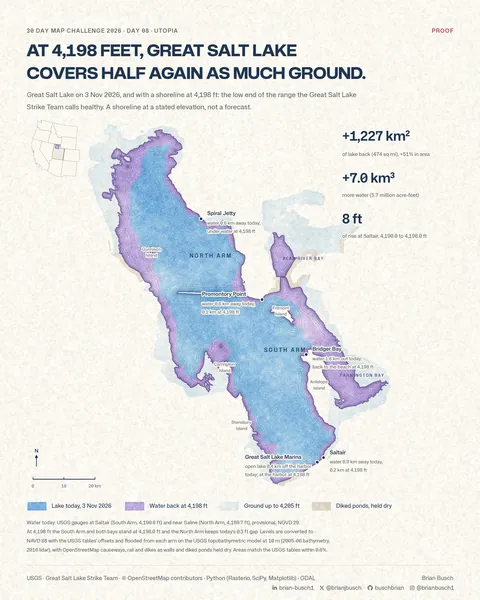
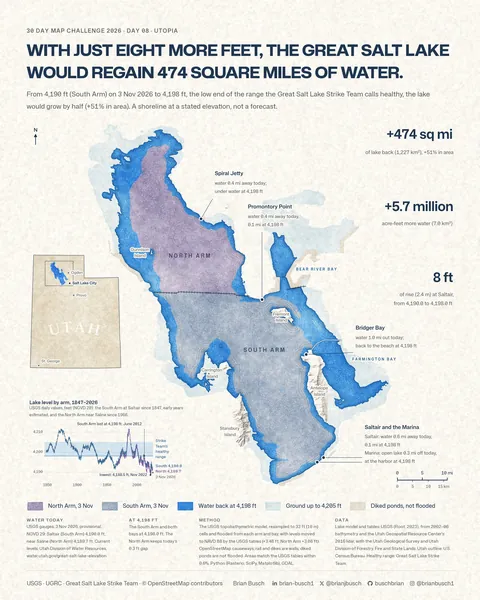
Update the Day 8 page for the final map
Replace the proof stand-in with the final still and rebuild its WebP
copies. The final has a new headline, purple and blue-grey arms for
November 3, and bright blue water at 4,198 feet.

Give areas, volume and distances in US units first. Correct the
bathymetry dates to 2002-06 from the USGS metadata. Credit UGRC, the
Utah Geological Survey and the Utah Division of Forestry, Fire and
State Lands. Link the current levels from the Utah Division of Water
Resources.

Update the symbol guide, the alternative text and the feed. Remove the
two review placeholders. The code excerpts still wait for the ruff pass.

diff --git a/notes/great-salt-lake-at-4198-feet/index.html b/notes/great-salt-lake-at-4198-feet/index.html
@@ -3,7 +3,7 @@
   <head>
     <meta charset="utf-8">
     <meta name="viewport" content="width=device-width, initial-scale=1">
-    <meta name="description" content="Great Salt Lake at 4,198 feet, the low end of the range the Great Salt Lake Strike Team calls healthy. At that level, the lake would cover about 1,227 km² more than on November 3, a 51% gain.">
+    <meta name="description" content="Great Salt Lake at 4,198 feet, the low end of the range the Great Salt Lake Strike Team calls healthy. At that level, the lake would cover about 474 square miles (1,227 km²) more than on November 3, a 51% gain.">
     <meta name="theme-color" content="#ffffff">
     <title>Great Salt Lake at 4,198 Feet | Brian Busch, GISP</title>
     <link rel="icon" href="/favicon.svg" type="image/svg+xml">
@@ -15,9 +15,9 @@
     <meta property="og:site_name" content="Brian Busch">
     <meta property="og:url" content="https://buschbrian.github.io/notes/great-salt-lake-at-4198-feet/">
     <meta property="og:title" content="Great Salt Lake at 4,198 Feet | Brian Busch, GISP">
-    <meta property="og:description" content="Great Salt Lake at 4,198 feet, the low end of the range the Great Salt Lake Strike Team calls healthy. At that level, the lake would cover about 1,227 km² more than on November 3, a 51% gain.">
+    <meta property="og:description" content="Great Salt Lake at 4,198 feet, the low end of the range the Great Salt Lake Strike Team calls healthy. At that level, the lake would cover about 474 square miles (1,227 km²) more than on November 3, a 51% gain.">
     <meta property="og:image" content="https://buschbrian.github.io/assets/images/great-salt-lake-at-4198-feet.jpg">
-    <meta property="og:image:alt" content="Watercolor map of Great Salt Lake in Utah. The lake on November 3, 2026, is light blue. A purple band shows the water that comes back at 4,198 feet. The band fills Farmington Bay and Bear River Bay and is widest along the west and north shores of the North Arm.">
+    <meta property="og:image:alt" content="Watercolor map of Great Salt Lake in Utah. On November 3, 2026, the North Arm is muted purple and the South Arm is muted blue-grey. A bright blue band shows the water that comes back at 4,198 feet. The band fills Farmington Bay and Bear River Bay. It is widest along the west and north shores of the North Arm.">
     <meta property="og:image:width" content="2160">
     <meta property="og:image:height" content="2700">
     <meta property="article:author" content="Brian Busch">
@@ -31,7 +31,7 @@
   "@context": "https://schema.org",
   "@type": "Article",
   "headline": "Great Salt Lake at 4,198 Feet",
-  "description": "Great Salt Lake at 4,198 feet, the low end of the range the Great Salt Lake Strike Team calls healthy. At that level, the lake would cover about 1,227 km² more than on November 3, a 51% gain.",
+  "description": "Great Salt Lake at 4,198 feet, the low end of the range the Great Salt Lake Strike Team calls healthy. At that level, the lake would cover about 474 square miles (1,227 km²) more than on November 3, a 51% gain.",
   "image": "https://buschbrian.github.io/assets/images/great-salt-lake-at-4198-feet.jpg",
   "datePublished": "2026-11-08",
   "dateModified": "2026-11-08",
@@ -75,13 +75,13 @@
           </div>
         </header>
         <figure class="post-hero-image">
-          <picture><source type="image/webp" srcset="/assets/images/r/great-salt-lake-at-4198-feet-480.webp 480w, /assets/images/r/great-salt-lake-at-4198-feet-960.webp 960w, /assets/images/r/great-salt-lake-at-4198-feet-1440.webp 1440w, /assets/images/r/great-salt-lake-at-4198-feet-2160.webp 2160w" sizes="(max-width: 720px) 90vw, 720px"><img src="/assets/images/great-salt-lake-at-4198-feet.jpg" alt="Watercolor map of Great Salt Lake in Utah. The lake on November 3, 2026, is light blue. A light purple band around it shows the water that comes back if the lake stands at 4,198 feet. Fine darker waterlines step in from the new shore through both colors. The purple band is widest along the flat west and north shores of the North Arm. It fills Farmington Bay, east of Antelope Island, and Bear River Bay. Both bays are dry today. A thin white line across the middle is the railroad causeway between the North Arm and the South Arm. A very faint wash shows ground up to 4,205 feet. Tan patches mark diked mineral ponds that stay dry. Labels give the change at five places: Spiral Jetty under water, Promontory Point and Saltair closer to the water, Bridger Bay with water back to the beach, and the open lake at the Great Salt Lake Marina&rsquo;s harbor. Large figures read plus 1,227 square kilometers of lake, plus 7.0 cubic kilometers of water, and 8 feet of rise at Saltair. A small map in the corner places the lake in northern Utah among the western states. The headline reads &ldquo;At 4,198 feet, Great Salt Lake covers half again as much ground.&rdquo;" width="2160" height="2700" fetchpriority="high"></picture>
-          <figcaption>Light blue is the lake on November 3. Purple is the water that comes back at 4,198 feet. <a href="/assets/images/great-salt-lake-at-4198-feet.jpg">Open the still</a>.</figcaption>
+          <picture><source type="image/webp" srcset="/assets/images/r/great-salt-lake-at-4198-feet-480.webp 480w, /assets/images/r/great-salt-lake-at-4198-feet-960.webp 960w, /assets/images/r/great-salt-lake-at-4198-feet-1440.webp 1440w, /assets/images/r/great-salt-lake-at-4198-feet-2160.webp 2160w" sizes="(max-width: 720px) 90vw, 720px"><img src="/assets/images/great-salt-lake-at-4198-feet.jpg" alt="Watercolor map of Great Salt Lake in Utah. The headline reads &ldquo;With just eight more feet, the Great Salt Lake would regain 474 square miles of water.&rdquo; On November 3, 2026, the North Arm is muted purple and the South Arm is muted blue-grey. A bright blue band shows the water that comes back at 4,198 feet. The band is widest along the flat west and north shores of the North Arm. It fills Farmington Bay, east of Antelope Island, and Bear River Bay. Both bays are dry today. Fine darker waterlines step in from the new shore. The islands show shaded relief. A dark line with ticks across the middle is the railroad causeway between the North Arm and the South Arm. A very faint wash shows ground up to 4,205 feet. Tan patches mark diked mineral ponds that stay dry. Callouts give the distance to water on November 3 and at 4,198 feet. They mark Spiral Jetty, Promontory Point, Bridger Bay, and Saltair with the Great Salt Lake Marina. Large figures read plus 474 square miles of lake, plus 5.7 million acre-feet of water, and 8 feet of rise at Saltair. A map of Utah places the lake and four cities. A chart shows the level of the South Arm since 1847 and the North Arm since 1966. It compares the levels with the Strike Team&rsquo;s healthy range." width="2160" height="2700" fetchpriority="high"></picture>
+          <figcaption>Purple and blue-grey are the North Arm and the South Arm on November 3. Bright blue is the water that comes back at 4,198 feet. <a href="/assets/images/great-salt-lake-at-4198-feet.jpg">Open the still</a>.</figcaption>
         </figure>
         <div class="post-content">
           <h2>Eight feet higher</h2>
           <p>Utopia is the theme for Day 8. This map draws Great Salt Lake at 4,198 feet. That level is the low end of the 4,198 to 4,205 foot range that the Great Salt Lake Strike Team calls healthy.</p>
-          <p>On November 3, 2026, the USGS gauge at Saltair on the South Arm read 4,190.0 feet. This value is provisional. At 4,198 feet, the lake would cover about 3,625 km², up from 2,398 km². That is about 1,227 km² (474 square miles) more, a 51% gain. The lake would hold about 7.0 km³ more water, or 5.7 million acre-feet.</p>
+          <p>On November 3, 2026, the USGS gauge at Saltair on the South Arm read 4,190.0 feet. This value is provisional. At 4,198 feet, the lake would cover about 1,399 square miles (3,625 km²), up from 926 square miles (2,398 km²). That is about 474 square miles (1,227 km²) more, a 51% gain. The lake would hold about 5.7 million acre-feet (7.0 km³) more water.</p>
           <p>At that level, Farmington Bay and Bear River Bay hold water again. Spiral Jetty sits about 2 feet under water. The map shows a shoreline at a stated elevation. It is not a forecast.</p>
           <h2>Two datums for one lake</h2>
           <p>A vertical datum is the zero point that a set of elevations is measured from. The lake gauges and the lake model use different datums.</p>
@@ -97,8 +97,8 @@
           <p>A railroad causeway splits the lake into a North Arm and a South Arm. On November 3, the North Arm gauge near Saline read 4,189.7 feet. That is 0.3 feet below the South Arm.</p>
           <p>The map keeps that gap. When the South Arm stands at 4,198 feet, the North Arm stands at 4,197.7 feet. Farmington Bay and Bear River Bay follow the South Arm.</p>
           <h2>Flooding the model</h2>
-          <p>The base is the USGS half-meter topobathymetric model of Great Salt Lake. A topobathymetric model joins land elevation and lake-bottom depth in one surface. This model merges 2005&ndash;06 bathymetry with 2016 lidar.</p>
-          <p>The script <code>day08_flood_gate.py</code> resamples the model to 10 m cells. Then it floods each part of the lake from its own seed.</p>
+          <p>The base is the USGS half-meter topobathymetric model of Great Salt Lake. A topobathymetric model joins land elevation and lake-bottom depth in one surface. This model merges 2002&ndash;06 bathymetry with 2016 lidar from the Utah Geospatial Resource Center (UGRC). The USGS metadata also credits the Utah Geological Survey and the Utah Division of Forestry, Fire and State Lands.</p>
+          <p>The script <code>day08_flood_gate.py</code> resamples the model to 33 ft (10 m) cells. Then it floods each part of the lake from its own seed.</p>
           <ul>
             <li>Each part of the lake is the largest connected area below its level inside a search box. Cells connect only through a shared edge, not a corner.</li>
             <li>OpenStreetMap (OSM) rail lines, causeways and dikes act as walls.</li>
@@ -121,40 +121,43 @@
           </section>
           <p>Each part is within 0.6% of its table at both levels. The volumes agree within 0.7%. The map&rsquo;s figures come from the flood, which keeps the diked ponds dry.</p>
           <h2>Where the shore moves</h2>
-          <p>The map labels five places. The script <code>day08_anchors.py</code> measures the straight-line distance from each place to the nearest flooded cell. On 10 m cells, the distances are good to about 10 m.</p>
+          <p>The map labels five places. The script <code>day08_anchors.py</code> measures the straight-line distance from each place to the nearest flooded cell. On 33 ft (10 m) cells, the distances are good to about 33 feet. Saltair and the Great Salt Lake Marina are 1.5 miles apart, so they share one label.</p>
           <ul>
-            <li>Spiral Jetty: water 0.6 km away on November 3. Under water at 4,198 feet.</li>
-            <li>Promontory Point: water 0.6 km away on November 3, and 0.1 km at 4,198 feet.</li>
-            <li>Bridger Bay: water 1.6 km out on November 3. Back to the beach at 4,198 feet.</li>
-            <li>Saltair: water 0.9 km away on November 3, and 0.2 km at 4,198 feet.</li>
-            <!-- Swap point: Marina label, pending Brian's review. -->
-            <li>Great Salt Lake Marina: the open lake is 0.4 km off the harbor on November 3. It reaches the harbor at 4,198 feet. The 2016 lidar cannot show whether the dredged harbor holds water, so the map measures only the open lake.</li>
+            <li>Spiral Jetty: water 0.4 miles (0.6 km) away on November 3. Under water at 4,198 feet.</li>
+            <li>Promontory Point: water 0.4 miles (0.6 km) away on November 3, and 0.1 miles (0.1 km) at 4,198 feet.</li>
+            <li>Bridger Bay: water 1.0 mile (1.6 km) out on November 3. Back to the beach at 4,198 feet.</li>
+            <li>Saltair: water 0.6 miles (0.9 km) away on November 3, and 0.1 miles (0.2 km) at 4,198 feet.</li>
+            <li>Great Salt Lake Marina: the open lake is 0.3 miles (0.4 km) off the harbor on November 3. It reaches the harbor at 4,198 feet. The 2016 lidar cannot show whether the dredged harbor holds water, so the map measures only the open lake.</li>
           </ul>
           <p>The height of Spiral Jetty comes from the half-meter model, inside its OSM outline. The median height of its crest is 4,195.4 feet, read on the North Arm gauge. At 4,198 feet, 98.9% of the jetty is under water, about 2.3 feet over its median crest. The jetty goes under at every offset in the VERTCON range.</p>
           <h2>Symbol guide</h2>
           <ul>
-            <li>Light blue is the lake on November 3, 2026.</li>
-            <li>Purple is the water that comes back at 4,198 feet. Its color blends into the light blue at the November 3 shore.</li>
-            <li>Darker waterlines step in from the 4,198-foot shore through both colors.</li>
-            <!-- Swap point: the 4,205 ft wash, pending Brian's review. -->
+            <li>Muted purple is the North Arm on November 3, 2026. Muted blue-grey is the South Arm on the same date.</li>
+            <li>Bright blue is the water that comes back at 4,198 feet.</li>
+            <li>Darker waterlines step in from the 4,198-foot shore.</li>
+            <li>Shaded relief shows the islands.</li>
             <li>A very faint wash shows ground up to 4,205 feet, the top of the Strike Team&rsquo;s range.</li>
             <li>Tan patches are diked mineral ponds. The flood keeps them dry.</li>
-            <li>The thin white line across the middle is the railroad causeway between the two arms.</li>
+            <li>A line with ticks is a railroad causeway in the water. A double line is a road or a dike. The flood treats both as walls.</li>
             <li>Large figures give the gain in area and volume, and the rise at Saltair.</li>
-            <li>A small map in the corner places the lake among the western states.</li>
+            <li>A map of Utah places the lake. It also shows Ogden, Salt Lake City, Provo, and St. George.</li>
+            <li>A chart shows the level of each arm and the Strike Team&rsquo;s healthy range. The South Arm record starts in 1847. The North Arm record starts in 1966.</li>
+            <li>The scale bar shows miles and kilometers.</li>
           </ul>
           <h2>Data notes</h2>
           <ul>
             <li>The lake levels are USGS daily values for November 3, 2026. They are provisional, and USGS can revise them.</li>
-            <li>The lake-bottom survey is from 2005&ndash;06. The land elevation is from 2016 lidar.</li>
+            <li>The lake-bottom survey is from 2002&ndash;06. The land elevation is from 2016 lidar.</li>
             <li>Areas and volumes come from the flood. The flood keeps the diked ponds dry.</li>
             <li>The map shows a shoreline at a stated elevation. It does not show how or when the lake could reach that level.</li>
             <li>This analysis does not speak for USGS or the Great Salt Lake Strike Team.</li>
           </ul>
           <h2>Data and credit</h2>
-          <p>The U.S. Geological Survey (USGS) publishes the half-meter lake model and its elevation-area-volume tables (Root, 2023). The lake levels come from USGS gauges 10010000 at Saltair Boat Harbor and 10010100 near Saline. The healthy range is from the Great Salt Lake Strike Team. The causeways, dikes and ponds come from OpenStreetMap. The locator map uses U.S. Census Bureau state boundaries. Python and GDAL make the map.</p>
+          <p>The U.S. Geological Survey (USGS) publishes the half-meter lake model and its elevation-area-volume tables (Root, 2023). The model uses 2016 lidar from the Utah Geospatial Resource Center. The USGS metadata also credits the Utah Geological Survey and the Utah Division of Forestry, Fire and State Lands.</p>
+          <p>The lake levels come from USGS gauges 10010000 at Saltair Boat Harbor and 10010100 near Saline. The Utah Division of Water Resources publishes the current levels. The healthy range is from the Great Salt Lake Strike Team. The causeways, dikes and ponds come from OpenStreetMap. The map of Utah uses U.S. Census Bureau state boundaries. Python and GDAL make the map.</p>
           <ul>
             <li><a href="https://doi.org/10.5066/P9DGG75W">Open the USGS lake model and tables</a>.</li>
+            <li><a href="https://water.utah.gov/great-salt-lake-elevation/">Open the current lake levels from the Utah Division of Water Resources</a>.</li>
             <li><a href="https://wilkescenter.utah.edu/great-salt-lake/strike-team/">Open the Great Salt Lake Strike Team page</a>.</li>
           </ul>
           <p class="source-note">Map data © <a href="https://www.openstreetmap.org/copyright">OpenStreetMap contributors</a>.</p>

diff --git a/index.html b/index.html
@@ -123,7 +123,7 @@
       </div>
       <!-- Newest posted day first, up to five tiles. The first tile is the large one. -->
       <div class="tiles">
-        <a class="tile tile-lead" href="/notes/great-salt-lake-at-4198-feet/"><picture><source type="image/webp" srcset="/assets/images/r/great-salt-lake-at-4198-feet-480.webp 480w, /assets/images/r/great-salt-lake-at-4198-feet-960.webp 960w" sizes="(max-width: 860px) 90vw, 420px"><img src="/assets/images/great-salt-lake-at-4198-feet.jpg" alt="Great Salt Lake in watercolor, with a purple band of water that comes back if the lake stands at 4,198 feet." width="2160" height="2700" fetchpriority="high"></picture><span class="tile-caption"><span class="tile-day">Day 08 &middot; Utopia</span><span class="tile-title">Great Salt Lake at 4,198 feet</span></span></a>
+        <a class="tile tile-lead" href="/notes/great-salt-lake-at-4198-feet/"><picture><source type="image/webp" srcset="/assets/images/r/great-salt-lake-at-4198-feet-480.webp 480w, /assets/images/r/great-salt-lake-at-4198-feet-960.webp 960w" sizes="(max-width: 860px) 90vw, 420px"><img src="/assets/images/great-salt-lake-at-4198-feet.jpg" alt="Great Salt Lake in watercolor, with a bright blue band of water that comes back if the lake stands at 4,198 feet." width="2160" height="2700" fetchpriority="high"></picture><span class="tile-caption"><span class="tile-day">Day 08 &middot; Utopia</span><span class="tile-title">Great Salt Lake at 4,198 feet</span></span></a>
         <a class="tile" href="/notes/wasatch-front-walk-to-transit/"><picture><source type="image/webp" srcset="/assets/images/r/wasatch-front-walk-to-transit-480.webp 480w" sizes="(max-width: 860px) 45vw, 200px"><img src="/assets/images/wasatch-front-walk-to-transit.jpg" alt="" width="2160" height="2700"></picture><span class="tile-day">Day 07 &middot; 10 minute map</span><span class="visually-hidden">: Walks to transit on the Wasatch Front</span></a>
         <a class="tile" href="/notes/holmes-zion-panorama/"><picture><source type="image/webp" srcset="/assets/images/r/holmes-zion-panorama-480.webp 480w" sizes="(max-width: 860px) 45vw, 200px"><img src="/assets/images/holmes-zion-panorama.jpg" alt="" width="2160" height="1638"></picture><span class="tile-day">Day 06 &middot; Vintage</span><span class="visually-hidden">: Holmes's 1882 Zion panorama, redrawn</span></a>
         <a class="tile" href="/notes/canyon-overlook-trail-viewshed/"><picture><source type="image/webp" srcset="/assets/images/r/canyon-overlook-trail-viewshed-480.webp 480w" sizes="(max-width: 860px) 45vw, 200px"><img src="/assets/images/canyon-overlook-trail-viewshed.jpg" alt="" width="2160" height="2700"></picture><span class="tile-day">Day 05 &middot; Sight</span><span class="visually-hidden">: What the Canyon Overlook Trail sees</span></a>

diff --git a/projects/index.html b/projects/index.html
@@ -261,7 +261,7 @@
         </a>
 
         <a class="map-card" id="great-salt-lake-at-4198-feet" href="/notes/great-salt-lake-at-4198-feet/">
-          <picture><source type="image/webp" srcset="/assets/images/r/great-salt-lake-at-4198-feet-480.webp 480w, /assets/images/r/great-salt-lake-at-4198-feet-960.webp 960w, /assets/images/r/great-salt-lake-at-4198-feet-1440.webp 1440w, /assets/images/r/great-salt-lake-at-4198-feet-2160.webp 2160w" sizes="(max-width: 720px) 90vw, 345px"><img src="/assets/images/great-salt-lake-at-4198-feet.jpg" alt="Watercolor map of Great Salt Lake in Utah. The lake on November 3, 2026, is light blue. A purple band shows the water that comes back at 4,198 feet. The band fills Farmington Bay and Bear River Bay and is widest along the west and north shores of the North Arm." width="2160" height="2700" loading="lazy"></picture>
+          <picture><source type="image/webp" srcset="/assets/images/r/great-salt-lake-at-4198-feet-480.webp 480w, /assets/images/r/great-salt-lake-at-4198-feet-960.webp 960w, /assets/images/r/great-salt-lake-at-4198-feet-1440.webp 1440w, /assets/images/r/great-salt-lake-at-4198-feet-2160.webp 2160w" sizes="(max-width: 720px) 90vw, 345px"><img src="/assets/images/great-salt-lake-at-4198-feet.jpg" alt="Watercolor map of Great Salt Lake in Utah. On November 3, 2026, the North Arm is muted purple and the South Arm is muted blue-grey. A bright blue band shows the water that comes back at 4,198 feet. The band fills Farmington Bay and Bear River Bay. It is widest along the west and north shores of the North Arm." width="2160" height="2700" loading="lazy"></picture>
           <p class="project-meta">30 Day Map Challenge 2026 | Day 8: Utopia</p>
           <h3>Great Salt Lake at 4,198 Feet</h3>
           <p>Great Salt Lake flooded to 4,198 feet on the USGS lake model, the low end of the range the Strike Team calls healthy.</p>
